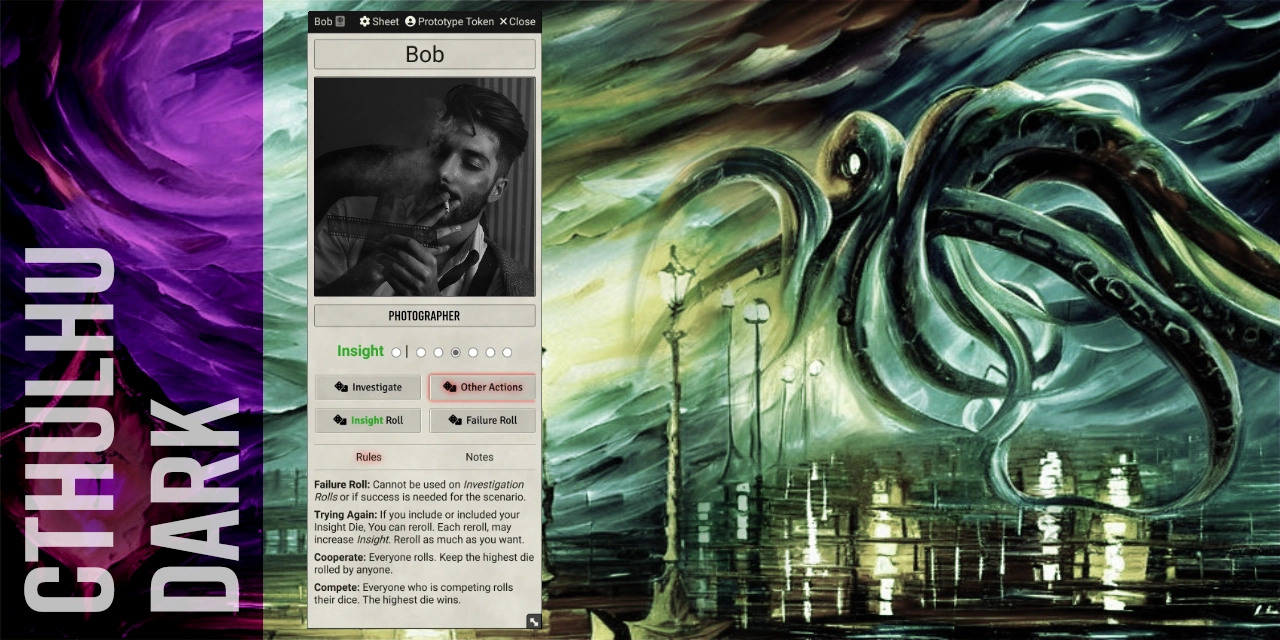
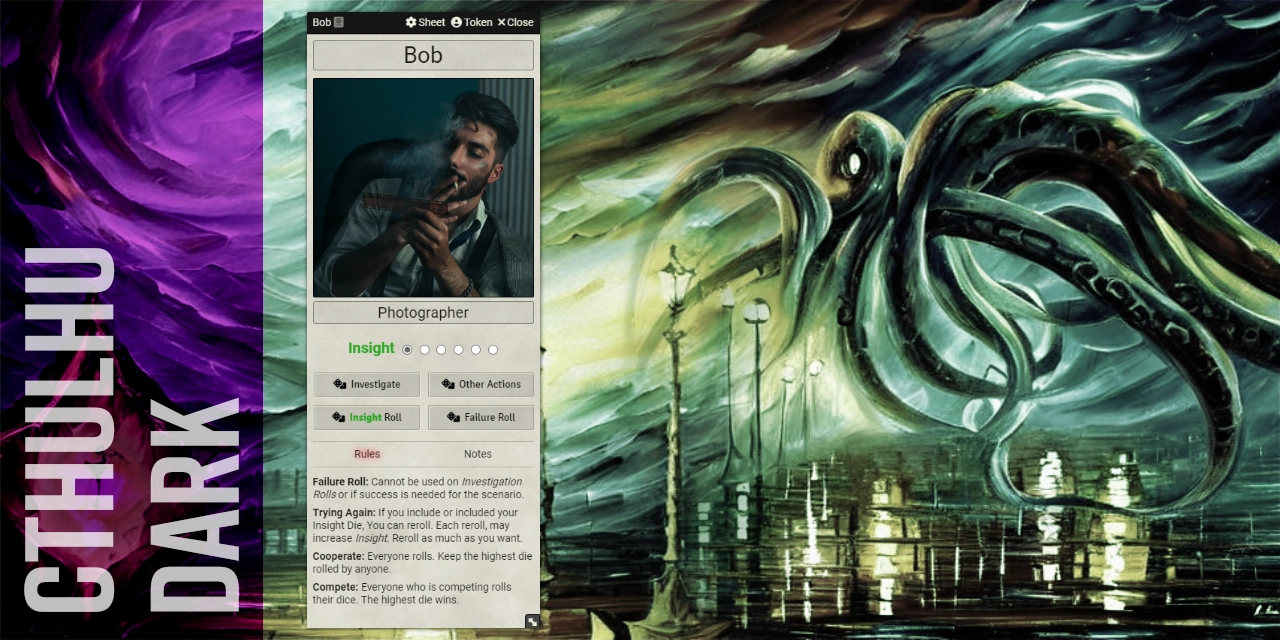
updated wording, fixed insight and updated images

Changed region(s): [[0.2188, 0.0, 0.4375, 0.7188], [0.2188, 0.75, 0.4375, 1.0], [0.4062, 0.9375, 0.4375, 1.0]]

diff --git a/templates/actor/actor-character-sheet.html b/templates/actor/actor-character-sheet.html
@@ -8,8 +8,6 @@
     <div class="insight">
     <b style="color: #2ba624">{{localize "CTHULHUDARK.Insight"}}</b>
     {{#multiboxes system.insight.value}}
-      <input type="radio" id="character-{{../_id}}-insight-0" name="system.insight.value" value="0">
-      <label for="character-{{../_id}}-insight-0">|</label>
       {{#times_from_1 system.insight.max}}
         <input type="radio" id="character-{{../_id}}-insight-{{this}}" name="system.insight.value" value="{{this}}">
         <label for="character-{{../_id}}-insight-{{this}}"></label>

diff --git a/README.md b/README.md
@@ -25,9 +25,10 @@ Image of the Charater Sheet and roll messages in Foundry's chat:
 
 ## To Be Done
 
-- Fix/Remove Items
+- Make the system translatable
 - Designs and CSS improvements
 - Add System Settings
+  - Add in rules from CD Variants
 
 ## How to Install
 
